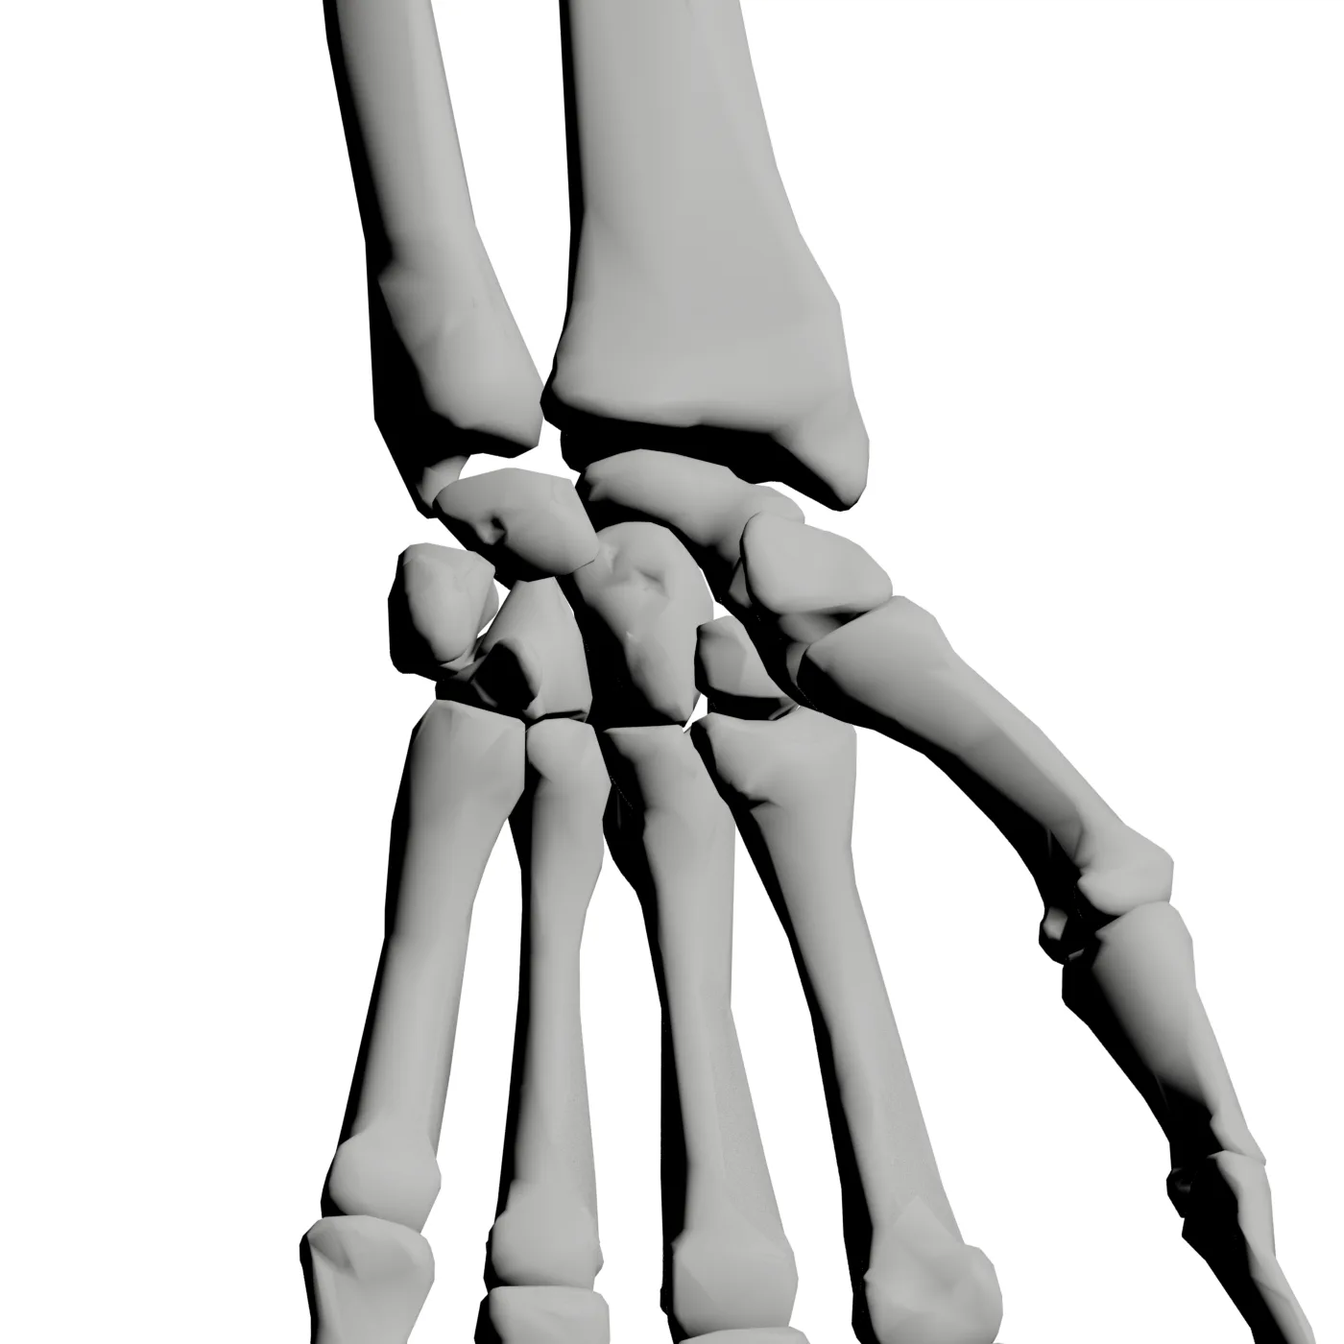
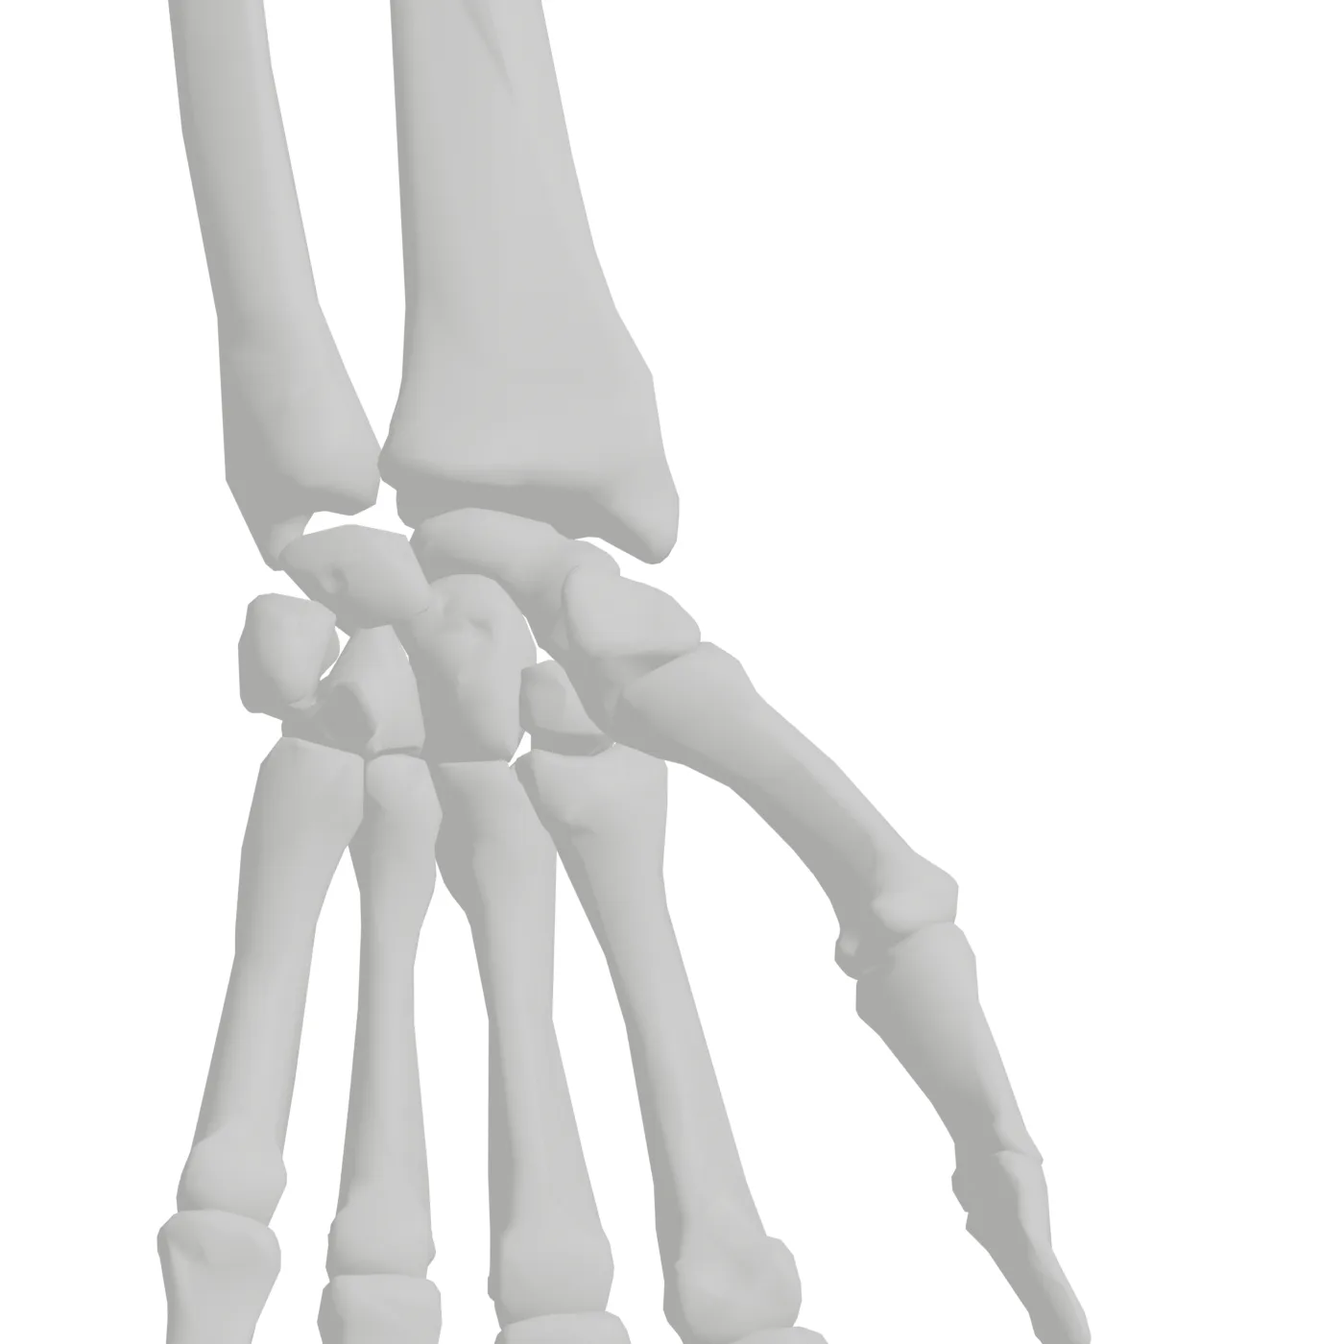
Split the carpometacarpal row into five joints
There was one CMC joint in the dataset, the thumb's, and it could not carry a
locate question: derived from `carpals + metacarpals` — eight bones against
five — its band lit the whole carpometacarpal row and nothing distinguished the
thumb. The four finger joints were not in the set at all, so they could not be
named, let alone located.

Each of the five now names its own carpal: trapezium, trapezoid, capitate, and
the hamate for both the fourth and fifth. That is what makes a joint line
derivable. articulatingStructureIds stays at whole-bone level, which is what
the field is for; PART_OVERRIDE in generateJointLineSpec.ts is where the
renderer is told the specific metacarpal, since the individual metacarpals are
meshes in the model but only one grouped structure in the seed.

THE CONTENT. Four new joints meant four descriptions and movement lists, built
around the functional point rather than the individual joints: the second and
third are effectively immobile and, with the distal carpal row, form the fixed
pillar of the hand; the fourth and fifth are progressively mobile and let the
palm cup. The movement lists say exactly that — Gliding only for 2 and 3,
flexion/extension added at 4, opposition at 5 — so "which movement is NOT
possible here" draws the distinction rather than blurring it. Reviewed and
approved before commit.

TWO RENDER CONTROLS came out of getting these to look right.

`frame` sets the camera width in world units. `margin` multiplies the contact
[…]

diff --git a/src/features/anatomy-revision/data/seed/hotspots.joints.generated.ts b/src/features/anatomy-revision/data/seed/hotspots.joints.generated.ts
@@ -57,20 +57,84 @@ export const JOINT_HOTSPOTS: Record<string, HotspotPolygon[]> = {
       centroid: [0.4993697678438561, 0.5627382420993265],
     },
   ],
+  'joint-carpometacarpal-joint-2-anterior': [
+    {
+      structureId: 'carpometacarpal-joint-2',
+      polygons: [[[0.45643,0.49214],[0.46,0.48786],[0.45786,0.48571],[0.45786,0.47],[0.47786,0.47],[0.49071,0.47429],[0.52286,0.47429],[0.53429,0.48429],[0.54286,0.48643],[0.54286,0.49786],[0.53643,0.50357],[0.53643,0.52071],[0.52571,0.52571],[0.52143,0.53214],[0.50929,0.53214],[0.50714,0.52929],[0.50214,0.53214],[0.49,0.53214],[0.47071,0.51929],[0.46,0.51714],[0.45643,0.50643]]],
+      area: 0.004264489800000007,
+      centroid: [0.49775583781628396, 0.500268068755259],
+    },
+  ],
+  'joint-carpometacarpal-joint-2-posterior': [
+    {
+      structureId: 'carpometacarpal-joint-2',
+      polygons: [[[0.45643,0.48357],[0.46286,0.48214],[0.46214,0.46643],[0.47357,0.46643],[0.48929,0.475],[0.50857,0.47429],[0.52143,0.47],[0.54143,0.47],[0.54143,0.48571],[0.53929,0.48786],[0.54143,0.49],[0.54143,0.50143],[0.53214,0.50929],[0.52643,0.52071],[0.51214,0.53071],[0.49714,0.53214],[0.49214,0.52929],[0.49,0.53286],[0.47857,0.53286],[0.47357,0.52571],[0.46286,0.52071],[0.46357,0.50429],[0.45643,0.49786]]],
+      area: 0.004341947449999939,
+      centroid: [0.49850573522740543, 0.49850749185502996],
+    },
+  ],
+  'joint-carpometacarpal-joint-3-anterior': [
+    {
+      structureId: 'carpometacarpal-joint-3',
+      polygons: [[[0.45929,0.49286],[0.465,0.48929],[0.46714,0.485],[0.51143,0.46714],[0.52357,0.46714],[0.53571,0.47571],[0.535,0.50714],[0.52929,0.50714],[0.51357,0.51857],[0.48071,0.53214],[0.46714,0.53143],[0.45929,0.50643]]],
+      area: 0.00353400205000004,
+      centroid: [0.4974197588988839, 0.4987660932969727],
+    },
+  ],
+  'joint-carpometacarpal-joint-3-posterior': [
+    {
+      structureId: 'carpometacarpal-joint-3',
+      polygons: [[[0.45071,0.485],[0.45286,0.48071],[0.46286,0.48],[0.46357,0.47571],[0.47571,0.46714],[0.48786,0.46714],[0.53214,0.485],[0.53429,0.48929],[0.54786,0.49786],[0.54786,0.50929],[0.53786,0.515],[0.53786,0.52857],[0.53214,0.53214],[0.51857,0.53214],[0.48571,0.51857],[0.47071,0.50786],[0.46143,0.50786],[0.46143,0.50357],[0.45071,0.49643]]],
+      area: 0.004005181599999963,
+      centroid: [0.5006195016903033, 0.4987917102082645],
+    },
+  ],
+  'joint-carpometacarpal-joint-4-anterior': [
+    {
+      structureId: 'carpometacarpal-joint-4',
+      polygons: [[[0.47571,0.47929],[0.48143,0.47929],[0.48214,0.47357],[0.50643,0.47286],[0.51071,0.47643],[0.54071,0.47357],[0.54429,0.47786],[0.54429,0.485],[0.54786,0.48857],[0.54786,0.52],[0.53786,0.52],[0.53357,0.525],[0.52143,0.525],[0.51929,0.52071],[0.49,0.52143],[0.49,0.49714],[0.48571,0.49286],[0.47571,0.49071]]],
+      area: 0.0029409157999999574,
+      centroid: [0.5155718685278262, 0.4973032982906232],
+    },
+  ],
+  'joint-carpometacarpal-joint-4-posterior': [
+    {
+      structureId: 'carpometacarpal-joint-4',
+      polygons: [[[0.45143,0.505],[0.46071,0.49357],[0.46,0.47357],[0.485,0.47643],[0.48857,0.47643],[0.49286,0.47286],[0.51714,0.47357],[0.51714,0.48214],[0.52214,0.48286],[0.52214,0.49357],[0.54786,0.505],[0.54786,0.51714],[0.53286,0.52071],[0.53214,0.52643],[0.50571,0.52571],[0.49571,0.52],[0.48,0.52071],[0.47786,0.525],[0.46571,0.525],[0.46143,0.52],[0.45143,0.52]]],
+      area: 0.0037562795999999954,
+      centroid: [0.49607754786171965, 0.501448511506128],
+    },
+  ],
+  'joint-carpometacarpal-joint-5-anterior': [
+    {
+      structureId: 'carpometacarpal-joint-5',
+      polygons: [[[0.45214,0.5],[0.45429,0.49357],[0.46286,0.48929],[0.46286,0.47857],[0.47143,0.47857],[0.48571,0.46571],[0.49857,0.46571],[0.51786,0.47857],[0.53571,0.48],[0.54429,0.48714],[0.54714,0.48714],[0.54714,0.49857],[0.53357,0.50643],[0.53286,0.51],[0.52357,0.51929],[0.51714,0.51929],[0.50643,0.53],[0.50571,0.53357],[0.49214,0.53357],[0.47714,0.52857],[0.46786,0.52],[0.45214,0.51857]]],
+      area: 0.004224422450000015,
+      centroid: [0.4964744338684683, 0.4995785804006959],
+    },
+  ],
+  'joint-carpometacarpal-joint-5-posterior': [
+    {
+      structureId: 'carpometacarpal-joint-5',
+      polygons: [[[0.45214,0.48714],[0.455,0.48714],[0.46357,0.48],[0.48143,0.47857],[0.50071,0.46571],[0.51357,0.46571],[0.52786,0.47857],[0.53643,0.47857],[0.53643,0.48929],[0.545,0.49357],[0.54714,0.5],[0.54714,0.51786],[0.53143,0.52],[0.52214,0.52857],[0.50643,0.53357],[0.49357,0.53357],[0.49286,0.53],[0.48214,0.51929],[0.47571,0.51929],[0.46643,0.51],[0.46571,0.50643],[0.45214,0.49857]]],
+      area: 0.00421712400000003,
+      centroid: [0.5027536127503391, 0.49953879960797803],
+    },
+  ],
   'joint-carpometacarpal-joint-thumb-anterior': [
     {
       structureId: 'carpometacarpal-joint-thumb',
-      polygons: [[[0.64,0.45],[0.65357,0.43857],[0.67,0.43786],[0.67,0.44929],[0.65143,0.46143],[0.64,0.46143]],[[0.59857,0.51214],[0.61,0.51214],[0.615,0.515],[0.615,0.52643],[0.60071,0.52571],[0.59857,0.52357]],[[0.38,0.52929],[0.38357,0.52929],[0.38643,0.52357],[0.39786,0.52357],[0.40357,0.53],[0.41071,0.53071],[0.41071,0.54214],[0.405,0.54429],[0.38071,0.54214]],[[0.48429,0.53357],[0.50357,0.52857],[0.52071,0.52786],[0.52357,0.52357],[0.535,0.52357],[0.54643,0.53214],[0.54571,0.55857],[0.53357,0.55857],[0.52,0.54429],[0.51429,0.54429],[0.51071,0.54786],[0.48429,0.54571]]],
-      area: 0.002574127550000041,
-      centroid: [0.529363253613377, 0.51921881569304],
+      polygons: [[[0.5,0.48214],[0.51071,0.47286],[0.51143,0.46571],[0.52643,0.46571],[0.52714,0.48357],[0.52357,0.48643],[0.51143,0.49357],[0.5,0.49357]],[[0.47071,0.50714],[0.47714,0.50714],[0.47857,0.50286],[0.49,0.50286],[0.49071,0.50714],[0.49643,0.50714],[0.49643,0.51857],[0.48857,0.53357],[0.47643,0.53286],[0.47071,0.51857]]],
+      area: 0.0011720897999999424,
+      centroid: [0.4978717420774217, 0.5001038415880554],
     },
   ],
   'joint-carpometacarpal-joint-thumb-posterior': [
     {
       structureId: 'carpometacarpal-joint-thumb',
-      polygons: [[[0.32929,0.43786],[0.34571,0.43857],[0.35929,0.45],[0.35929,0.46143],[0.34786,0.46143],[0.33,0.45]],[[0.38429,0.515],[0.38929,0.51214],[0.40071,0.51214],[0.40071,0.52357],[0.39643,0.52643],[0.38429,0.52643]],[[0.45357,0.53143],[0.46429,0.52357],[0.47571,0.52357],[0.47857,0.52786],[0.49571,0.52857],[0.515,0.53357],[0.515,0.54571],[0.48857,0.54786],[0.485,0.54429],[0.47929,0.54429],[0.46571,0.55857],[0.45357,0.55857]],[[0.58857,0.53071],[0.59571,0.53],[0.60143,0.52357],[0.61286,0.52357],[0.61571,0.52929],[0.61929,0.52929],[0.61929,0.54143],[0.60714,0.54214],[0.60643,0.54429],[0.59143,0.54357],[0.58857,0.54214]]],
-      area: 0.002564158599999908,
-      centroid: [0.46988063100589084, 0.5191841312811871],
+      polygons: [[[0.47214,0.47214],[0.47286,0.46571],[0.48786,0.46571],[0.48857,0.47286],[0.49929,0.48214],[0.49929,0.49357],[0.48786,0.49357],[0.47571,0.48643],[0.47214,0.48357]],[[0.50357,0.50714],[0.50857,0.50714],[0.50929,0.50286],[0.52071,0.50286],[0.52214,0.50714],[0.52857,0.50714],[0.52857,0.51857],[0.52214,0.53357],[0.51071,0.53357],[0.50357,0.52]]],
+      area: 0.0011687454499999528,
+      centroid: [0.501294499549644, 0.4999588701942541],
     },
   ],
   'joint-costovertebral-joint-anterior': [

diff --git a/src/features/anatomy-revision/data/seed/structures.joints.seed.ts b/src/features/anatomy-revision/data/seed/structures.joints.seed.ts
@@ -352,10 +352,106 @@ export const JOINT_STRUCTURES: JointStructure[] = [
     stabilizers: ['Anterior and posterior oblique ligaments', 'Intermetacarpal ligament', 'Thenar muscles'],
     aliases: ['CMC joint of thumb', 'First carpometacarpal joint', 'Trapeziometacarpal joint'],
     imageIds: [],
-    eligibility: { flashcard: true, mcq: true, locate: false },
+    eligibility: { flashcard: true, mcq: true, locate: true },
     difficulty: 'medium',
     tags: ['synovial', 'wrist'],
     clinical: 'One of the most common sites of hand osteoarthritis ("thumb base arthritis").',
+  },
+  // The four finger carpometacarpal joints. Added alongside the thumb's, which
+  // had been the only CMC joint in the set, because a single "carpometacarpal
+  // joint of thumb" left the other four unnameable and made the thumb's own
+  // hotspot impossible to draw: derived from `carpals + metacarpals` it lit the
+  // whole row. Each of these names its own carpal, which is what makes a joint
+  // line derivable — see PART_OVERRIDE in generateJointLineSpec.ts.
+  //
+  // THE FUNCTIONAL POINT IS THE 2-3 VERSUS 4-5 SPLIT, not the individual
+  // joints. The second and third are effectively immobile and form, with the
+  // distal carpal row, the fixed unit the hand is built around; the fourth and
+  // fifth are progressively mobile and let the palm cup around what it holds.
+  // Movements are listed to say exactly that, so "which movement is NOT
+  // possible here" can draw the distinction rather than blur it.
+  {
+    id: 'carpometacarpal-joint-2',
+    name: 'Second Carpometacarpal Joint',
+    category: 'joint',
+    region: 'forearm-hand',
+    subregion: 'wrist-hand',
+    description:
+      'The plane joint between the trapezoid and the base of the second metacarpal. Together with the third ' +
+      'it is essentially immobile, and that is the point: the second and third metacarpals form the fixed ' +
+      'central pillar the mobile thumb and the mobile fourth and fifth rays work against.',
+    jointType: 'plane',
+    articulatingStructureIds: ['trapezoid', 'metacarpals'],
+    movements: ['Gliding'],
+    stabilizers: ['Dorsal, palmar and interosseous carpometacarpal ligaments'],
+    aliases: ['CMC 2', 'Second CMC joint'],
+    imageIds: [],
+    eligibility: { flashcard: true, mcq: true, locate: true },
+    difficulty: 'hard',
+    tags: ['synovial', 'wrist'],
+  },
+  {
+    id: 'carpometacarpal-joint-3',
+    name: 'Third Carpometacarpal Joint',
+    category: 'joint',
+    region: 'forearm-hand',
+    subregion: 'wrist-hand',
+    description:
+      'The plane joint between the capitate and the base of the third metacarpal. The least mobile joint in ' +
+      'the hand, and the axis the fingers abduct and adduct about — spreading the fingers is measured from ' +
+      'the third ray, not the midline of the body.',
+    jointType: 'plane',
+    articulatingStructureIds: ['capitate', 'metacarpals'],
+    movements: ['Gliding'],
+    stabilizers: ['Dorsal, palmar and interosseous carpometacarpal ligaments'],
+    aliases: ['CMC 3', 'Third CMC joint'],
+    imageIds: [],
+    eligibility: { flashcard: true, mcq: true, locate: true },
+    difficulty: 'hard',
+    tags: ['synovial', 'wrist'],
+  },
+  {
+    id: 'carpometacarpal-joint-4',
+    name: 'Fourth Carpometacarpal Joint',
+    category: 'joint',
+    region: 'forearm-hand',
+    subregion: 'wrist-hand',
+    description:
+      'The plane joint between the hamate and the base of the fourth metacarpal. Unlike the second and third ' +
+      'it permits a little flexion and extension, the first of the two mobile rays that let the palm fold ' +
+      'around an object rather than meeting it flat.',
+    jointType: 'plane',
+    articulatingStructureIds: ['hamate', 'metacarpals'],
+    movements: ['Flexion', 'Extension', 'Gliding'],
+    stabilizers: ['Dorsal, palmar and interosseous carpometacarpal ligaments'],
+    aliases: ['CMC 4', 'Fourth CMC joint'],
+    imageIds: [],
+    eligibility: { flashcard: true, mcq: true, locate: true },
+    difficulty: 'hard',
+    tags: ['synovial', 'wrist'],
+  },
+  {
+    id: 'carpometacarpal-joint-5',
+    name: 'Fifth Carpometacarpal Joint',
+    category: 'joint',
+    region: 'forearm-hand',
+    subregion: 'wrist-hand',
+    description:
+      'The plane joint between the hamate and the base of the fifth metacarpal, and the most mobile of the ' +
+      'four finger joints. Its flexion and slight opposition are what bring the little finger towards the ' +
+      'thumb and deepen the hollow of the palm, the movement a grip closes with.',
+    jointType: 'plane',
+    articulatingStructureIds: ['hamate', 'metacarpals'],
+    movements: ['Flexion', 'Extension', 'Opposition', 'Gliding'],
+    stabilizers: ['Dorsal, palmar and interosseous carpometacarpal ligaments', 'Opponens digiti minimi'],
+    aliases: ['CMC 5', 'Fifth CMC joint'],
+    imageIds: [],
+    eligibility: { flashcard: true, mcq: true, locate: true },
+    difficulty: 'hard',
+    tags: ['synovial', 'wrist'],
+    clinical:
+      "Dislocation or fracture-dislocation here is the hand equivalent of a boxer's fracture pattern, and is " +
+      'easily missed on a plain AP film because the joint is oblique to the beam.',
   },
   {
     id: 'metacarpophalangeal-joint',

diff --git a/src/scripts/generateJointLineSpec.ts b/src/scripts/generateJointLineSpec.ts
@@ -48,9 +48,70 @@ const Z_PREFER: Record<string, 'min' | 'max'> = {
  * band read as a broad patch over the whole articular surface rather than a
  * line along it.
  */
-const TUNING: Record<string, { band?: number; margin?: number }> = {
+/**
+ * Joints whose articulatingStructureIds are too coarse to derive a line from.
+ *
+ * carpometacarpal-joint-thumb names `carpals + metacarpals` — eight bones
+ * against five — so the band comes out along the whole carpometacarpal row and
+ * nothing distinguishes the thumb. The thumb joint is trapezium against the
+ * first metacarpal, and both exist in the model.
+ *
+ * The seed is left alone on purpose. articulatingStructureIds is content: it is
+ * what a student is told the joint forms between, and "the carpals and the
+ * metacarpals" is a fair thing to say at whole-bone level (see that field's own
+ * note in structures.joints.seed.ts). This is the renderer needing to be more
+ * specific than the teaching is, which is a mapping concern, not a content one.
+ *
+ * Each side is either a structure id the skeletal mapping resolves, or a
+ * Z-Anatomy mesh name used verbatim — the individual metacarpals are meshes in
+ * the model but are only grouped as one structure in the seed.
+ */
+const PART_OVERRIDE: Record<string, { a: string[]; b: string[] }> = {
+  'carpometacarpal-joint-thumb': {
+    a: ['trapezium'],
+    b: ['First metacarpal bone.l', 'First metacarpal bone.r'],
+  },
+  'carpometacarpal-joint-2': {
+    a: ['trapezoid'],
+    b: ['Second metacarpal bone.l', 'Second metacarpal bone.r'],
+  },
+  'carpometacarpal-joint-3': {
+    a: ['capitate'],
+    b: ['Third metacarpal bone.l', 'Third metacarpal bone.r'],
+  },
+  // Four and five share the hamate, so only the metacarpal separates them.
+  'carpometacarpal-joint-4': {
+    a: ['hamate'],
+    b: ['Fourth metacarpal bone.l', 'Fourth metacarpal bone.r'],
+  },
+  'carpometacarpal-joint-5': {
+    a: ['hamate'],
+    b: ['Fifth metacarpal bone.l', 'Fifth metacarpal bone.r'],
+  },
+};
+
+const TUNING: Record<string, { band?: number; margin?: number; frame?: number }> = {
   'glenohumeral-joint': { band: 0.005 },
   'humeroulnar-joint': { band: 0.005, margin: 6 },
+
+  // The carpometacarpal joints need a far wider frame than anything else here.
+  // The camera frames the contact region, and theirs is roughly a hundredth of
+  // the hand — at the default the render is two unrecognisable white shapes
+  // filling the frame, which is no use as a locate image: the student has to be
+  // able to see it IS a hand before picking a joint out of it.
+  // `frame` rather than `margin`: these five contact regions differ sevenfold
+  // in size, so a multiplier that frames a hand for the thumb frames two white
+  // shapes for the fifth. 0.15 world units is a hand.
+  //
+  // Their bands also need a wider tolerance. The carpals are coarsely meshed
+  // where they meet the metacarpals — the fifth found six contact vertices at
+  // the default — and a band of two faces is a handful of pixels once the
+  // camera pulls back far enough to show the hand.
+  'carpometacarpal-joint-thumb': { frame: 0.15, band: 0.03 },
+  'carpometacarpal-joint-2': { frame: 0.15, band: 0.03 },
+  'carpometacarpal-joint-3': { frame: 0.15, band: 0.04 },
+  'carpometacarpal-joint-4': { frame: 0.15, band: 0.04 },
+  'carpometacarpal-joint-5': { frame: 0.15, band: 0.05 },
 };
 
 function parseArgs(argv: string[]): Record<string, string> {
@@ -85,9 +146,15 @@ for (const joint of joints) {
     continue;
   }
 
-  const [aId, bId] = parts;
-  const aObjects = meshesFor.get(aId) ?? [];
-  const bObjects = meshesFor.get(bId) ?? [];
+  const override = PART_OVERRIDE[joint.id];
+  const [aId, bId] = override ? [override.a.join('+'), override.b.join('+')] : parts;
+
+  /** A structure id the mapping knows, or a mesh name to pass through verbatim. */
+  const resolve = (names: string[]): string[] =>
+    names.flatMap((n) => meshesFor.get(n) ?? [n]);
+
+  const aObjects = override ? resolve(override.a) : (meshesFor.get(aId) ?? []);
+  const bObjects = override ? resolve(override.b) : (meshesFor.get(bId) ?? []);
 
   const missing = [
     aObjects.length === 0 ? aId : null,

diff --git a/src/features/anatomy-revision/data/seed/jointPanels.generated.ts b/src/features/anatomy-revision/data/seed/jointPanels.generated.ts
@@ -26,6 +26,14 @@ export const JOINT_PANELS: JointPanel[] = [
   { structureId: 'atlantoaxial-joint', name: "Atlantoaxial Joint", region: 'back-core', subregion: 'neck', view: 'anterior', width: 1400, height: 1400 },
   { structureId: 'atlantoaxial-joint', name: "Atlantoaxial Joint", region: 'back-core', subregion: 'neck', view: 'lateral', width: 1400, height: 1400 },
   { structureId: 'atlantoaxial-joint', name: "Atlantoaxial Joint", region: 'back-core', subregion: 'neck', view: 'posterior', width: 1400, height: 1400 },
+  { structureId: 'carpometacarpal-joint-2', name: "Second Carpometacarpal Joint", region: 'forearm-hand', subregion: 'wrist-hand', view: 'anterior', width: 1400, height: 1400 },
+  { structureId: 'carpometacarpal-joint-2', name: "Second Carpometacarpal Joint", region: 'forearm-hand', subregion: 'wrist-hand', view: 'posterior', width: 1400, height: 1400 },
+  { structureId: 'carpometacarpal-joint-3', name: "Third Carpometacarpal Joint", region: 'forearm-hand', subregion: 'wrist-hand', view: 'anterior', width: 1400, height: 1400 },
+  { structureId: 'carpometacarpal-joint-3', name: "Third Carpometacarpal Joint", region: 'forearm-hand', subregion: 'wrist-hand', view: 'posterior', width: 1400, height: 1400 },
+  { structureId: 'carpometacarpal-joint-4', name: "Fourth Carpometacarpal Joint", region: 'forearm-hand', subregion: 'wrist-hand', view: 'anterior', width: 1400, height: 1400 },
+  { structureId: 'carpometacarpal-joint-4', name: "Fourth Carpometacarpal Joint", region: 'forearm-hand', subregion: 'wrist-hand', view: 'posterior', width: 1400, height: 1400 },
+  { structureId: 'carpometacarpal-joint-5', name: "Fifth Carpometacarpal Joint", region: 'forearm-hand', subregion: 'wrist-hand', view: 'anterior', width: 1400, height: 1400 },
+  { structureId: 'carpometacarpal-joint-5', name: "Fifth Carpometacarpal Joint", region: 'forearm-hand', subregion: 'wrist-hand', view: 'posterior', width: 1400, height: 1400 },
   { structureId: 'carpometacarpal-joint-thumb', name: "Carpometacarpal Joint of Thumb", region: 'forearm-hand', subregion: 'wrist-hand', view: 'anterior', width: 1400, height: 1400 },
   { structureId: 'carpometacarpal-joint-thumb', name: "Carpometacarpal Joint of Thumb", region: 'forearm-hand', subregion: 'wrist-hand', view: 'posterior', width: 1400, height: 1400 },
   { structureId: 'costovertebral-joint', name: "Costovertebral Joint", region: 'back-core', subregion: 'spine', view: 'anterior', width: 1400, height: 1400 },

diff --git a/src/scripts/blender/renderJointMasks.py b/src/scripts/blender/renderJointMasks.py
@@ -259,7 +259,7 @@ def surface_patch(meshes_and_indices, name):
     return mesh, relaxed
 
 
-def frame_camera(lo, hi, angle_deg, margin):
+def frame_camera(lo, hi, angle_deg, margin, frame_size=None):
     center = mathutils.Vector(((lo[0] + hi[0]) / 2, (lo[1] + hi[1]) / 2, (lo[2] + hi[2]) / 2))
     size = max(bbox_size(lo, hi), 1e-4)
     dist = size * 8 + 0.5
@@ -268,7 +268,12 @@ def frame_camera(lo, hi, angle_deg, margin):
     loc = center + offset
     cam.location = loc
     cam.rotation_euler = (center - loc).to_track_quat("-Z", "Y").to_euler()
-    cam_data.ortho_scale = size * margin
+    # `margin` multiplies the contact region, which breaks down where regions
+    # differ by an order of magnitude: the fifth carpometacarpal contact is a
+    # seventh the size of the thumb's, so the same multiplier frames a hand for
+    # one and two white shapes for the other. `frame_size` sets the width in
+    # world units instead, which is what "show me the whole hand" actually means.
+    cam_data.ortho_scale = frame_size if frame_size else size * margin
     sun.rotation_euler = mathutils.Euler((0.9, 0.3, 0.6 + theta), "XYZ")
 
 
@@ -333,6 +338,7 @@ for jid in wanted:
     # exactly that pairing.
     band = j.get("band", a.band)
     margin = j.get("margin", a.margin)
+    frame_size = j.get("frame")
 
     found = contact_region(mesh_a, mesh_b, band, a.cluster, j.get("zPrefer"))
     if found is None:
@@ -365,7 +371,7 @@ for jid in wanted:
         # The rest of the skeleton is held out, so a band the student cannot
         # actually see is not a band they can be asked to click.
         clear()
-        frame_camera(lo, hi, frame * 15, margin)
+        frame_camera(lo, hi, frame * 15, margin, frame_size)
         link(occluders, f"occ_{jid}", BONE_MAT, holdout=True)
         link(patch, f"mask_line_{jid}", MASK_MAT)
         render_to(os.path.join(a.out, jid, f"view-{frame:02d}", "line.png"))
